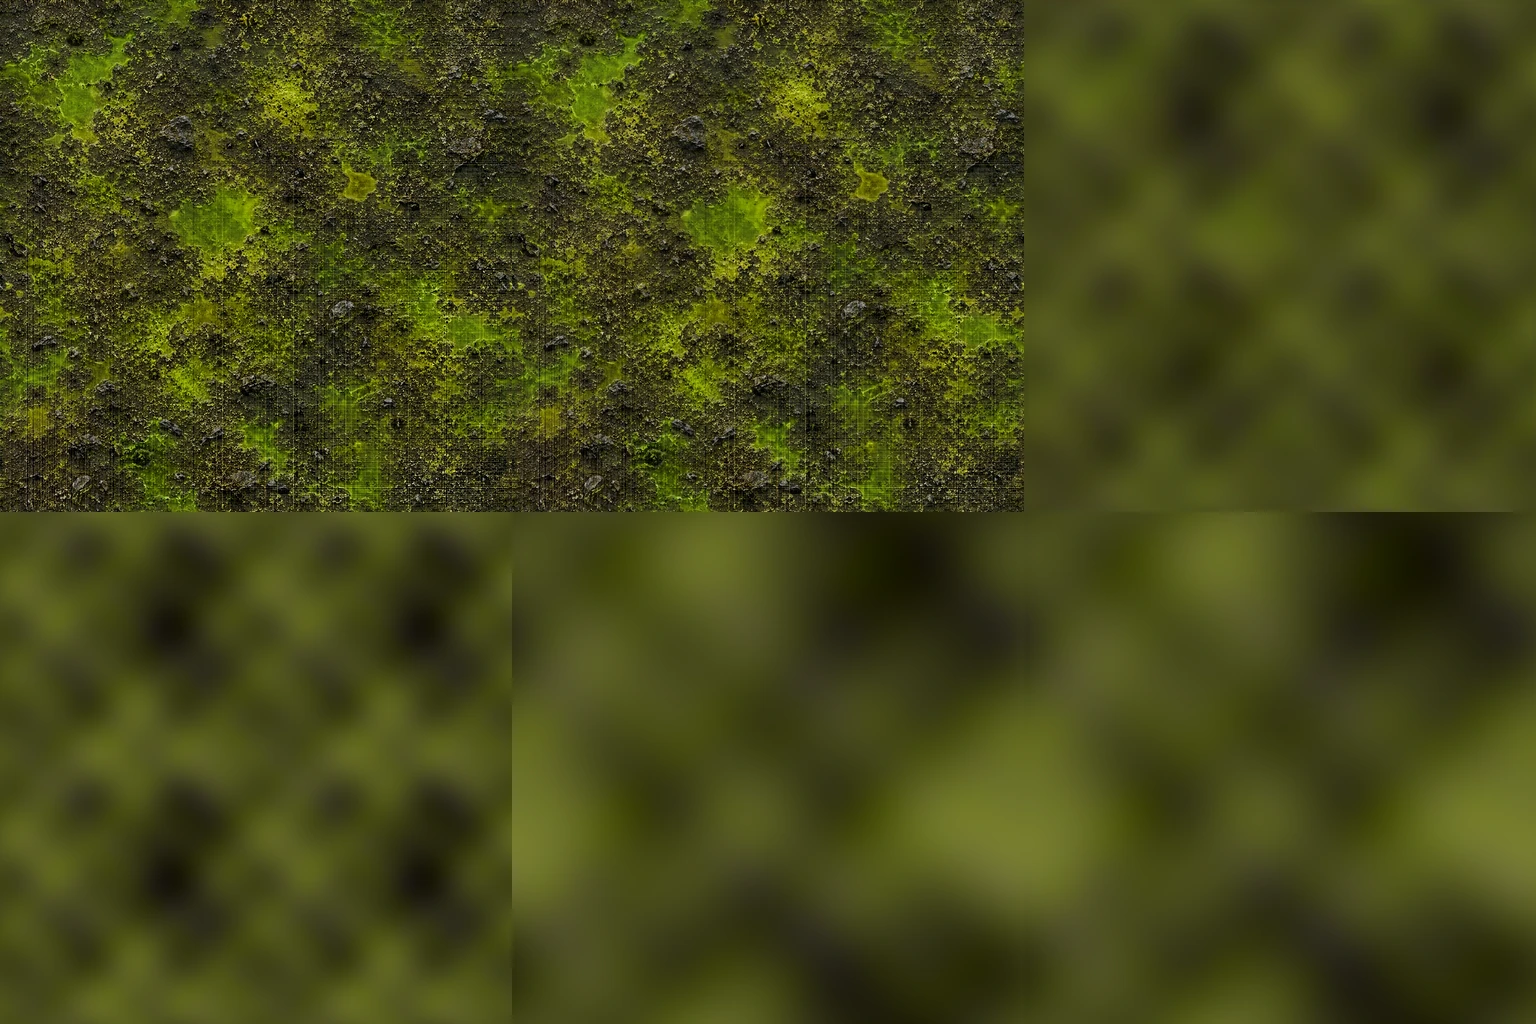
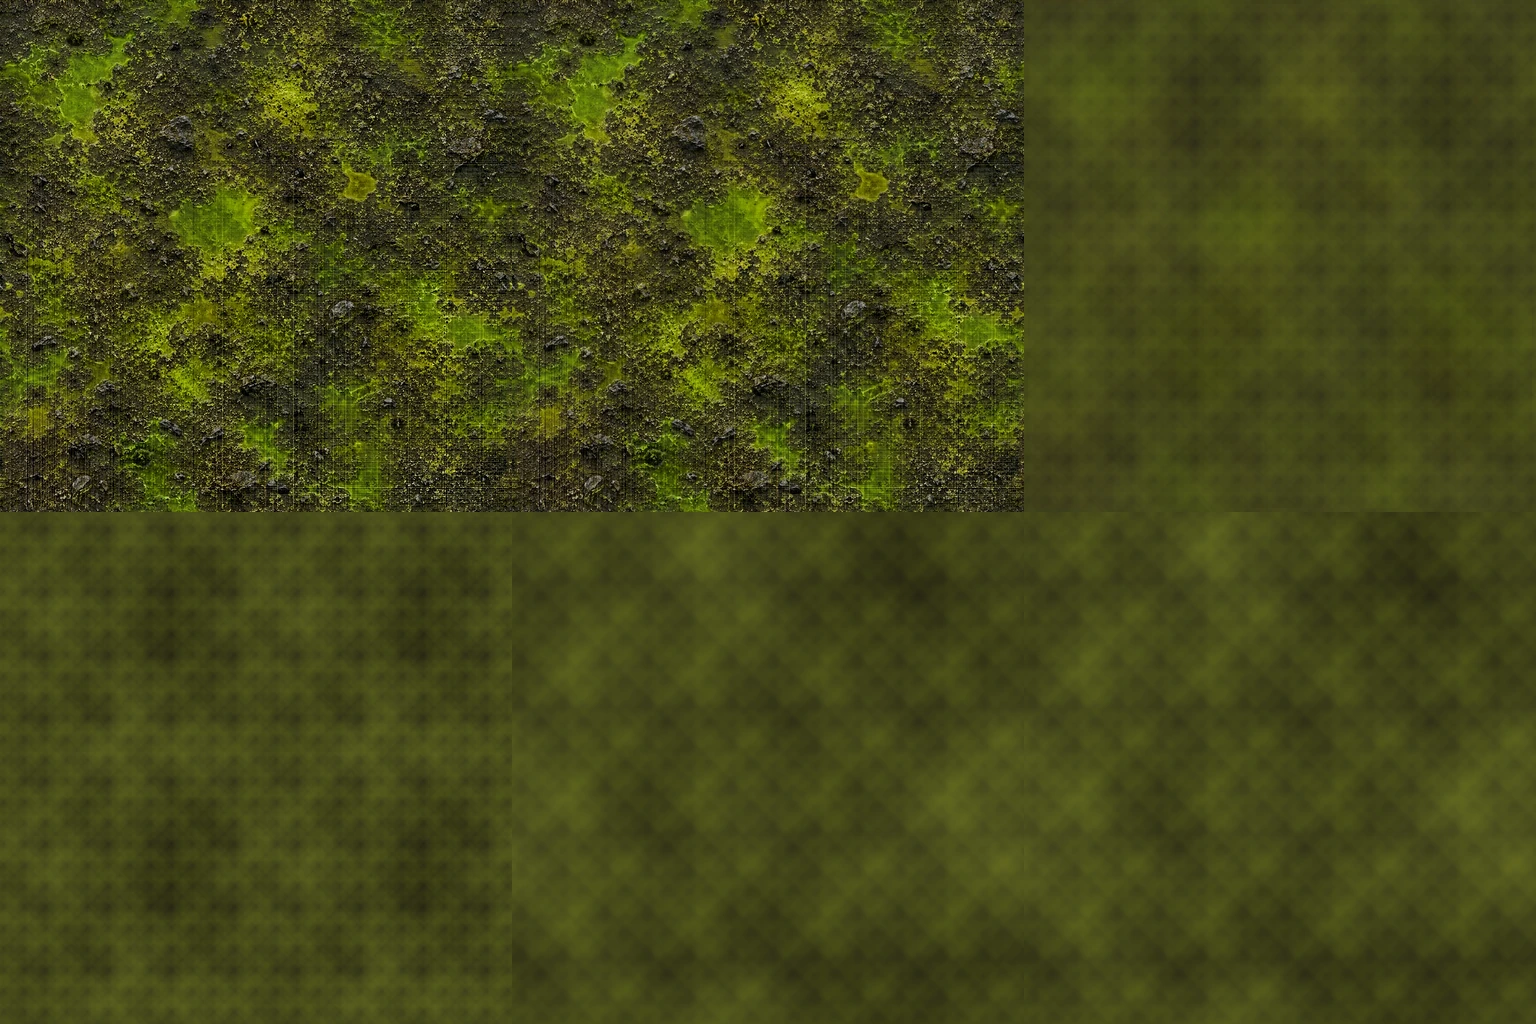
Add regional detail to distant terrain scales

diff --git a/scripts/build_terrain_lod_atlases.py b/scripts/build_terrain_lod_atlases.py
@@ -41,8 +41,12 @@ def macro_tile(source: np.ndarray, seed: int, frequency: int, strength: float) -
     principal = vectors[:, -1] * np.sqrt(max(values[-1], 0.0))
     secondary = vectors[:, -2] * np.sqrt(max(values[-2], 0.0))
     broad = periodic_noise(INNER_SIZE, seed, frequency)
-    detail = periodic_noise(INNER_SIZE, seed + 971, frequency * 2)
-    colour = mean + strength * (broad[..., None] * principal + 0.5 * detail[..., None] * secondary)
+    medium = periodic_noise(INNER_SIZE, seed + 971, frequency * 4)
+    fine = periodic_noise(INNER_SIZE, seed + 1949, frequency * 12)
+    colour = mean + strength * (
+        (0.5 * broad + 0.4 * medium + 0.25 * fine)[..., None] * principal
+        + (0.2 * medium + 0.15 * fine)[..., None] * secondary
+    )
     return Image.fromarray(np.clip(colour, 0, 255).astype(np.uint8), "RGB")
 
 
@@ -58,8 +62,8 @@ def build(material: dict) -> None:
     source_pixels = np.asarray(source, dtype=np.float32)
     seed = int.from_bytes(hashlib.sha256(material["id"].encode()).digest()[:8], "little")
     near = ImageEnhance.Sharpness(source).enhance(1.2)
-    regional = macro_tile(source_pixels, seed, 2, 2.2)
-    broad = macro_tile(source_pixels, seed + 1, 1, 2.8)
+    regional = macro_tile(source_pixels, seed, 2, 1.5)
+    broad = macro_tile(source_pixels, seed + 1, 1, 1.7)
     hundred = Image.blend(source.filter(ImageFilter.GaussianBlur(18)), regional, 0.65)
     tiles = [near, source, hundred, regional, broad]
     atlas = Image.new("RGB", ATLAS_SIZE)
